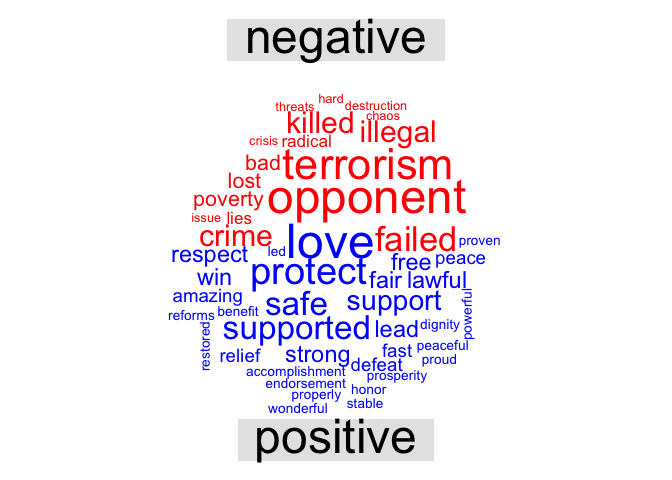
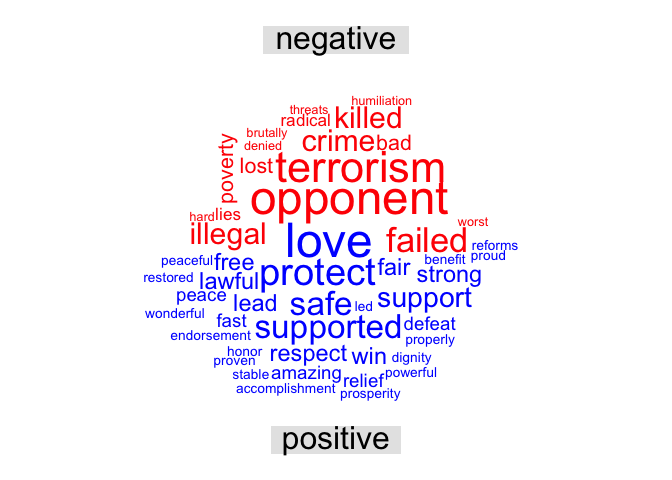
maybe final?

Changed region(s): [[0.2188, 0.1875, 0.7812, 0.9688], [0.3125, 0.0312, 0.6875, 0.1562]]

diff --git a/hw09.md b/hw09.md
@@ -11,17 +11,22 @@ Comparison of Negative and Positive Words for Trump
 
 ![](hw09_files/figure-markdown_github/unnamed-chunk-5-1.png)
 
-Comparison of Negative and Positive for Clinton
------------------------------------------------
+The above word cloud compares negative and positive word uses for Donald Trump's 2016 Republican Party nomination speech. The most commonly used negative words (shown large and in red) were opponent and terrorism. His most used positive words were love and protect. \#\# Comparison of Negative and Positive for Clinton
 
 ![](hw09_files/figure-markdown_github/unnamed-chunk-6-1.png)
+
+The above graph shows the most used word in Hillary Clinton's 2016 Democratic party nomination speech, compared between negative and positive sentiment using the bing lexicon. Her most used negative words are hard and fear. Her most used positive words are stronger and proud.
 
 Comparison of Trump and Clinton's Negative Words
 ------------------------------------------------
 
 ![](hw09_files/figure-markdown_github/unnamed-chunk-7-1.png)
 
+The above worcloud shows the most used negative words of both speeches compared by speaker. Although this image shpws the same words as the previous two, this organization males a different comparison. Ths image shows that none of the most used words do not overlap between the two speeches.
+
 Comparison of Trump and Clinton's Positive Words
 ------------------------------------------------
 
 ![](hw09_files/figure-markdown_github/unnamed-chunk-8-1.png)
+
+Just as there was little to no overlap between highly used negative words in the two speeches, there was no overlap in the most used positive words.
